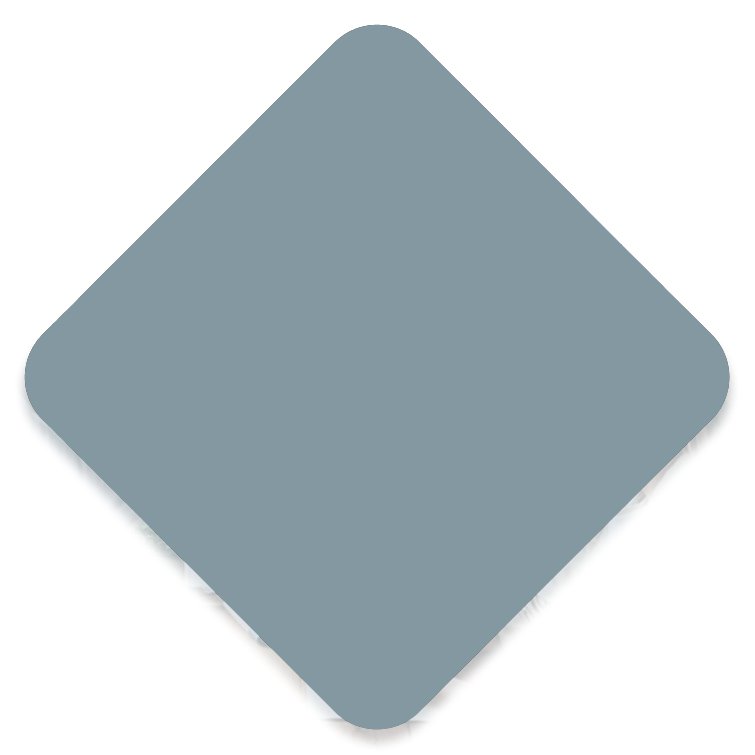
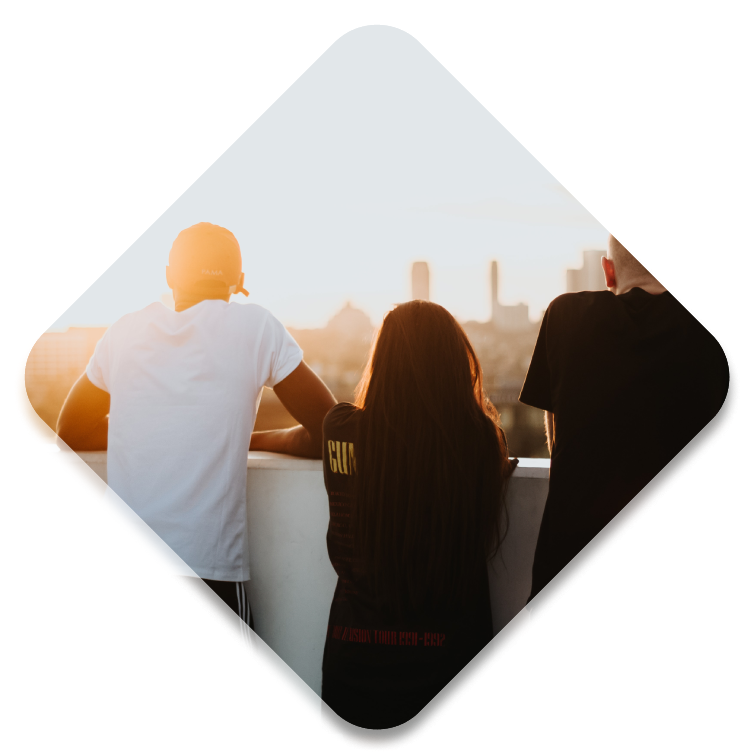
pf

diff --git a/src/app/container/home/home.component.html b/src/app/container/home/home.component.html
@@ -14,23 +14,23 @@
           <div class="main-header">
               <div class="header-left">
                   <div class="header-logo">
-                      <a  class="d-flex"><img alt="jobhub" src="../../../assets/imgs/theme/jobhub-logo.svg" /></a>
+                      <a  class="d-flex"><img alt="jobhub" src="../../../assets/imgs/theme/logo.png" /></a>
                   </div>
                   <div class="header-nav">
 <!--                      <nav class="nav-main-menu d-none d-xl-block">-->
                           <ul class="main-menu">
                               <li class="">
-                                  <a class="active" href="home">Home</a>
+                                  <a class="active" href="home">Kreu</a>
                               </li>
                               <li class="">
-                                  <a href="employee">Employees</a>
+                                  <a href="employee">Kantidatët</a>
                               </li>
                           </ul>
 <!--                      </nav>-->
                   </div>
               </div>
             <div *ngIf="!isLoggedIn()">
-            <a href="/login"><button class="btn btn-default btn-find">Sign in </button></a>
+            <a href="/login"><button class="btn btn-default btn-find">Hyr </button></a>
           </div>
           </div>
       </div>
@@ -43,20 +43,19 @@
                   <div class="row">
                       <div class="col-lg-8">
                           <div class="block-banner">
-                              <span class="text-small-primary text-small-primary--disk text-uppercase  wow animate__animated animate__fadeInUp">Best jobs place</span>
-                              <h1 class="heading-banner wow animate__animated animate__fadeInUp">The Easiest Way to Get Your New Job</h1>
-                              <div class="banner-description mt-30 wow animate__animated animate__fadeInUp">Each month, more than 3 million job seekers turn to
-                                  website in their search for work, making over 140,000 applications every single day</div>
+                              <span class="text-small-primary text-small-primary--disk text-uppercase  wow animate__animated animate__fadeInUp">Gjej profesionistin tënd</span>
+                              <h1 class="heading-banner wow animate__animated animate__fadeInUp">Mënyra më e lehtë për të gjetur profesionistin tuaj të ri</h1>
+                              <div class="banner-description mt-30 wow animate__animated animate__fadeInUp">Çdo muaj, më shumë punëkërkues të rinj i drejtohen platformës tonë në kërkimin e tyre për punë. Shiko video prezantimin e secilit profesionist për të krijuar nje ide më të qartë, shpejt dhe pa formalitete.</div>
                               <br>
-                              <a href="employee"><button class="btn btn-default btn-find">Find now</button></a>
+                              <a href="employee"><button class="btn btn-default btn-find">Kërko</button></a>
                           </div>
                       </div>
                       <div class="col-lg-4">
                           <div class="banner-imgs">
-                              <img alt="jobhub" src="../../../assets/imgs/page/homepage3/banner-main.png" class="img-responsive shape-1" />
+                              <img alt="jobhub" src="../../../assets/imgs/page/homepage3/banner-sm3.png" class="img-responsive shape-2" />
                               <span class="banner-sm1"><img alt="jobhub" src="../../../assets/imgs/page/homepage3/banner-sm1.png" class="img-responsive shape-3" /></span>
-                              <span class="banner-sm2"><img alt="jobhub" src="../../../assets/imgs/page/homepage3/banner-sm2.png" class="img-responsive shape-2" /></span>
-                              <span class="banner-sm3"><img alt="jobhub" src="../../../assets/imgs/page/homepage3/banner-sm3.png" class="img-responsive shape-2" /></span>
+                              <span class="banner-sm2"><img alt="jobhub" src="../../../assets/imgs/page/homepage3/banner-main.png" class="img-responsive shape-2" /></span>
+                              <span class="banner-sm3"><img alt="jobhub" src="../../../assets/imgs/page/homepage3/banner-sm2.png" class="img-responsive shape-2" /></span>
                           </div>
                       </div>
                   </div>
@@ -67,10 +66,8 @@
           <div class="container">
               <div class="row align-items-end">
                   <div class="col-lg-7">
-                      <h2 class="section-title mb-20 wow animate__animated animate__fadeInUp">Find by category</h2>
-                      <p class="text-md-lh28 color-black-5 wow animate__animated animate__fadeInUp">Find the type of work
-                          you need, clearly defined and ready to start. Work begins as soon as you purchase and provide
-                          requirements.</p>
+                      <h2 class="section-title mb-20 wow animate__animated animate__fadeInUp">Gjeni sipas çdo kategorie</h2>
+                      <p class="text-md-lh28 color-black-5 wow animate__animated animate__fadeInUp">  Kërkoni për cfarë keni nevojë,kontaktoni dhe vendosni. Puna fillon sapo të dyja palet bien dakord.</p>
                   </div>
               </div>
               <div class="row mt-70">
@@ -81,7 +78,7 @@
                                   <figure><img alt="jobhub" src="../../../assets/imgs/theme/icons/marketing.svg" /></figure>
 
                           </div>
-                          <h5 class="text-center mt-20 card-heading">Marketing & Communication
+                          <h5 class="text-center mt-20 card-heading">Marketing & Komunikim
                           </h5>
 
                       </div>
@@ -93,7 +90,7 @@
                                   <figure><img alt="jobhub" src="../../../assets/imgs/theme/icons/content-writer.svg" /></figure>
 
                           </div>
-                          <h5 class="text-center mt-20 card-heading">Content <br>Writer</h5>
+                          <h5 class="text-center mt-20 card-heading">Shkrimtar</h5>
 
                       </div>
                   </div>
@@ -102,7 +99,8 @@
                           <div class="text-center">
                                   <figure><img src="../../../assets/imgs/theme/icons/marketing-director.svg" alt="jobhub" /></figure>
                           </div>
-                          <h5 class="text-center mt-20 card-heading">Marketing <br>Director</h5>
+                          <h5 class="text-center mt-20 card-heading">
+                            Drejtor <br>Marketingu</h5>
 
                       </div>
                   </div>
@@ -113,7 +111,7 @@
                                   <figure><img src="../../../assets/imgs/theme/icons/system-analyst.svg" alt="jobhub" /></figure>
 
                           </div>
-                          <h5 class="text-center mt-20 card-heading">System <br>Analyst</h5>
+                          <h5 class="text-center mt-20 card-heading">Analist <br>Sistemi</h5>
 
                       </div>
                   </div>
@@ -134,7 +132,7 @@
                                 <figure><img src="../../../assets/imgs/theme/icons/proof-reading.svg" alt="jobhub" /></figure>
 
                           </div>
-                          <h5 class="text-center mt-20 card-heading">Market <br>Research</h5>
+                          <h5 class="text-center mt-20 card-heading">Asistente <br></h5>
 
                       </div>
                   </div>
@@ -155,11 +153,11 @@
                           <div class="text-center mt-15">
                               <h3>99+</h3>
                           </div>
-                          <p class="text-center mt-30 text-stroke-40">Employers are waiting for you</p>
                           <div class="text-center mt-30">
-                              <div class="box-button-shadow"><a href="employee" class="btn btn-default">Explore more</a></div>
-                          </div>
-                      </div>
+                              <p class="text-center mt-30 text-stroke-40">Kantidatë janë duke pritur per ty</p>
+                            </div>
+                        </div>
+                        <div class="box-button-shadow"><a href="employee" class="btn btn-default">Zbulo më shumë</a></div>
                   </div>
               </div>
           </div>
@@ -172,7 +170,8 @@
           <div class="footer-bottom mt-50">
               <div class="row">
                   <div class="col-md-6">
-                      Copyright ©2022 <a href="#"><strong>AME</strong></a>. All Rights Reserved
+                      Copyright ©2022 <a href="#"><strong>AME</strong></a>. Të gjitha të drejtat e rezervuara
+
                   </div>
                   <div class="col-md-6 text-md-end text-start">
                       <div class="footer-social">

diff --git a/src/app/container/register/register.component.html b/src/app/container/register/register.component.html
@@ -9,8 +9,8 @@
           <form class="form fv-plugins-bootstrap fv-plugins-framework" novalidate="novalidate" id="kt_login_signin_form">
             <div class="pb-13 pt-lg-0 pt-5">
               <div class="pb-13 pt-lg-0 pt-5">
-                <h3 class="font-weight-bolder text-dark font-size-h4 font-size-h1-lg">Register new user</h3>
-                <p class="text-muted font-weight-bold font-size-h4">Become part of exposing new talents</p>
+                <h3 class="font-weight-bolder text-dark font-size-h4 font-size-h1-lg">Regjistrohu tani!</h3>
+                <p class="text-muted font-weight-bold font-size-h4">Gjeje talentin që po të mungon .</p>
               </div>
             </div>
             <form
@@ -21,7 +21,7 @@
               novalidate
             >
               <div class="form-group fv-plugins-icon-container">
-                <label for="username" class="font-size-h6 font-weight-bolder text-dark">Username</label>
+                <label for="username" class="font-size-h6 font-weight-bolder text-dark">Përdoruesi</label>
                 <input class="form-control form-control-solid h-auto py-6 px-6 rounded-lg"
                        type="text"
                        name="username"
@@ -44,7 +44,7 @@
               </div>
               <div class="form-group fv-plugins-icon-container">
                 <div class="d-flex justify-content-between mt-n5">
-                  <label for="password" class="font-size-h6 font-weight-bolder text-dark pt-5" style="padding-top: 3.25rem !important;">Password</label>
+                  <label for="password" class="font-size-h6 font-weight-bolder text-dark pt-5" style="padding-top: 3.25rem !important;">Fjalëkalimi</label>
                 </div>
                 <input class="form-control form-control-solid h-auto py-6 px-6 rounded-lg"
                        type="password"
@@ -55,12 +55,12 @@
                        autocomplete="off">
                 <div class="fv-plugins-message-container"></div>
               </div>
-              <div class="text-muted font-weight-bolder" style="color:#000000">Already a member?
-              <a routerLink="/login" class="text-primary font-weight-bolder" style="color: #9777fa">Sign in</a>
+              <div class="text-muted font-weight-bolder" style="color:#000000">Je pjesë e Youth Net Albania?
+              <a routerLink="/login" class="text-primary font-weight-bolder" style="color: #9777fa">Hyr</a>
               </div>
               <div class="form-group pb-lg-0 pb-5">
                 <button type="submit"  class="btn btn-primary
-              font-weight-bolder font-size-h6 px-8 py-4 my-3 mr-3" style="background-color: #9777fa; border-color:#9777fa">Sign Up</button>
+              font-weight-bolder font-size-h6 px-8 py-4 my-3 mr-3" style="background-color: #9777fa; border-color:#9777fa">Regjistrohu</button>
               </div>
             </form>
             <input type="hidden"><div></div></form>

diff --git a/src/app/container/login/login.component.html b/src/app/container/login/login.component.html
@@ -9,9 +9,9 @@
         <div class="login-form login-signin">
           <form class="form fv-plugins-bootstrap fv-plugins-framework" novalidate="novalidate">
             <div class="pb-13 pt-lg-0 pt-5">
-              <h3 class="font-weight-bolder text-dark font-size-h4 font-size-h1-lg" style="color: #9777fa">Welcome to KorcaHunter</h3>
-              <span class="text-muted font-weight-bold font-size-h4">New Here?
-									<a routerLink="/register" class="text-primary font-weight-bolder" style="color: #9777fa">Apply for access</a></span>
+              <h3 class="font-weight-bolder text-dark font-size-h4 font-size-h1-lg" style="color: #9777fa">Mirë se vini në Youth Net Albania</h3>
+              <span class="text-muted font-weight-bold font-size-h4">I Ri?
+									<a routerLink="/register" class="text-primary font-weight-bolder" style="color: #9777fa">Krijo një llogari të re</a></span>
             </div>
             <form
               name="form"
@@ -20,7 +20,7 @@
               novalidate
             >
               <div class="form-group fv-plugins-icon-container">
-                <label for="username" class="font-size-h6 font-weight-bolder text-dark">Username</label>
+                <label for="username" class="font-size-h6 font-weight-bolder text-dark">Përdoruesi</label>
                 <input class="form-control form-control-solid h-auto py-6 px-6 rounded-lg"
                        type="text"
                        name="username"
@@ -33,7 +33,7 @@
 
               <div class="form-group fv-plugins-icon-container">
                 <div class="d-flex justify-content-between mt-n5">
-                  <label for="password" class="font-size-h6 font-weight-bolder text-dark pt-5" style="padding-top: 4.25rem !important;">Password</label>
+                  <label for="password" class="font-size-h6 font-weight-bolder text-dark pt-5" style="padding-top: 4.25rem !important;">Fjalëkalimi</label>
                 </div>
                 <input class="form-control form-control-solid h-auto py-6 px-6 rounded-lg"
                        type="password"
@@ -48,7 +48,7 @@
               </div>
               <div class="form-group pb-lg-0 pb-5">
                 <button type="submit" class="btn btn-primary
-                font-weight-bolder font-size-h6 px-8 py-4 my-3 mr-3" style="background-color: #9777fa; border-color:#9777fa">Sign In
+                font-weight-bolder font-size-h6 px-8 py-4 my-3 mr-3" style="background-color: #9777fa; border-color:#9777fa">Hyr
                 </button>
                 <button type="button" class="btn btn-light-primary font-weight-bolder px-8 py-4 my-3 font-size-lg">
 

diff --git a/src/index.html b/src/index.html
@@ -2,7 +2,7 @@
 <html lang="en">
 <head>
   <meta charset="utf-8">
-  <title>KorcaHunter</title>
+  <title>Youth Net Albania</title>
   <base href="/">
   <meta name="description" content="" />
   <meta name="viewport" content="width=device-width, initial-scale=1" />
@@ -11,7 +11,7 @@
   <meta property="og:url" content="" />
   <meta property="og:image" content="" />
   <!-- Favicon -->
-  <link rel="shortcut icon" type="image/x-icon" href="assets/imgs/theme/favicon.svg" />
+  <link rel="shortcut icon" type="image/x-icon" href="assets/imgs/theme/logo2.png" />
   <!-- Template CSS -->
   <link rel="stylesheet" href="assets/css/plugins/animate.min.css" />
   <link rel="stylesheet" href="assets/css/main.css?v=1.0" />

diff --git a/src/app/container/employee/employee.component.html b/src/app/container/employee/employee.component.html
@@ -6,7 +6,7 @@
 
           <div class="header-logo">
             <a  class="d-flex">
-              <img alt="jobhub" src="assets/imgs/theme/jobhub-logo.svg" />
+              <img alt="Youth Net Albania" src="assets/imgs/theme/jobhub-logo.svg" />
             </a>
           </div>
           <div class="header-nav">
